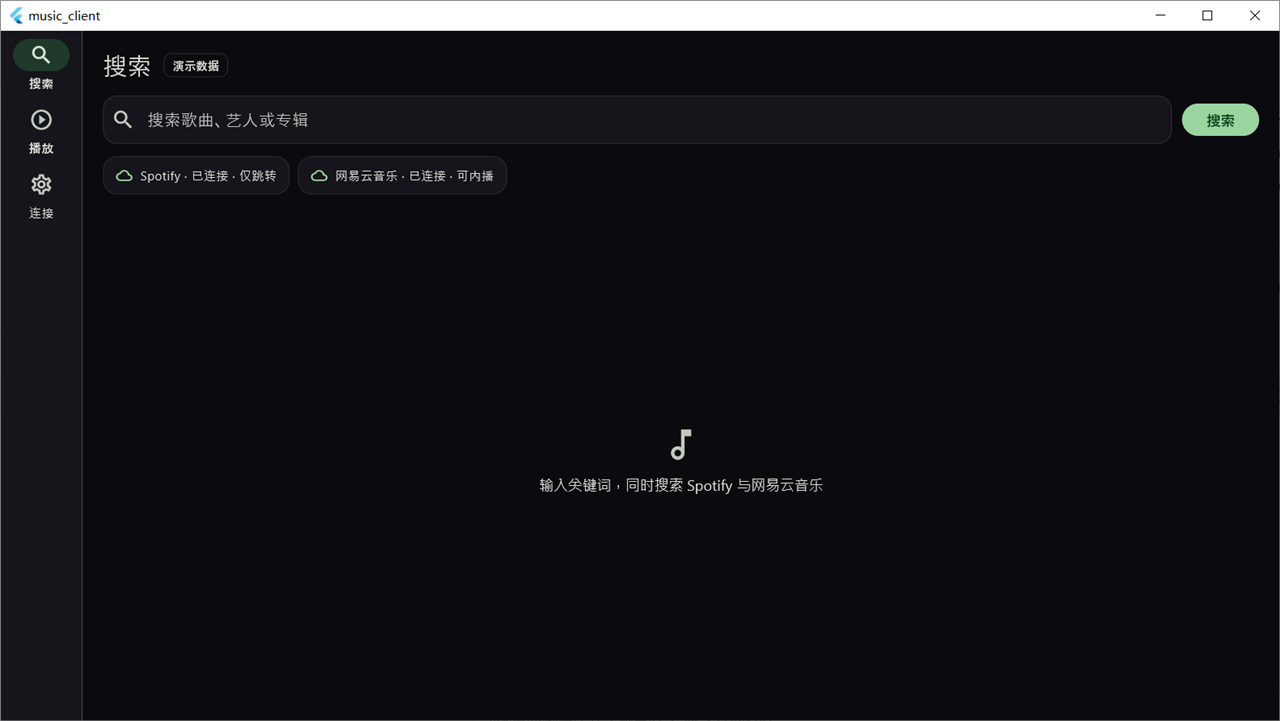
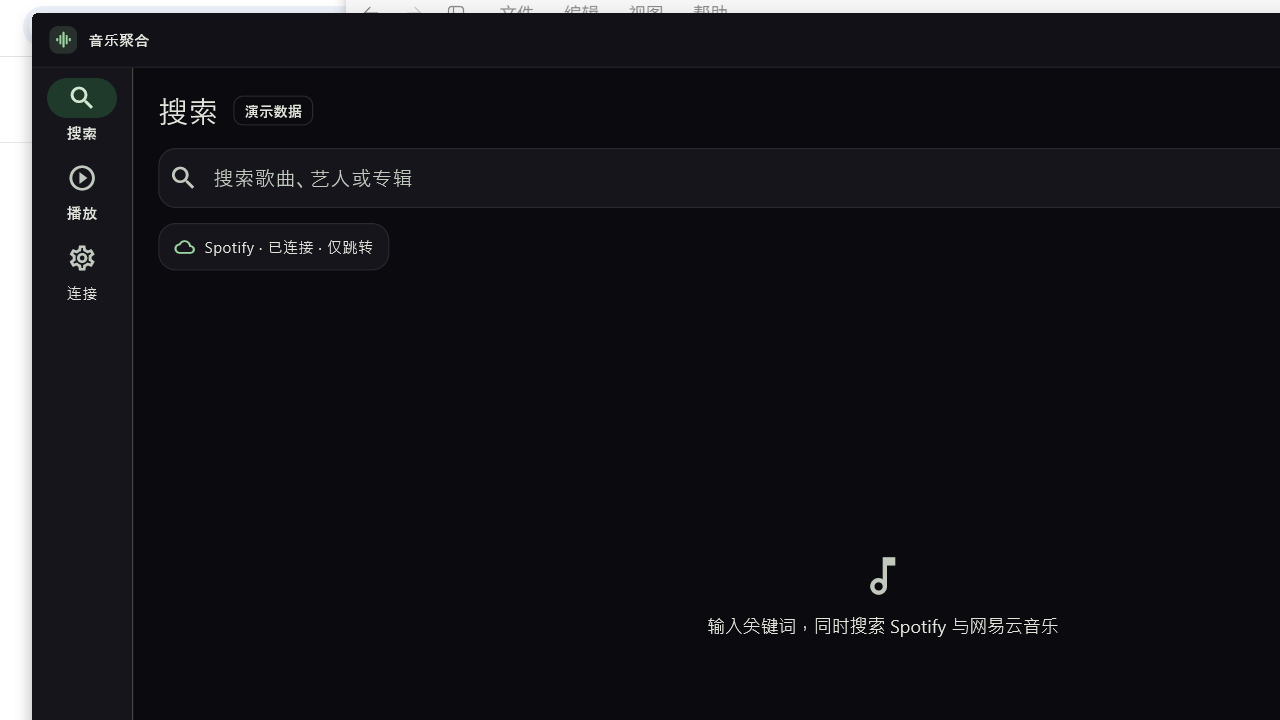
docs: record frameless window verification

diff --git a/TOOLCHAIN.md b/TOOLCHAIN.md
@@ -63,7 +63,7 @@ licenses: All SDK package licenses accepted
 | 目标 | 状态 | 证据 |
 | --- | --- | --- |
 | 静态检查 | ✅ | `flutter analyze` → No issues found |
-| 测试 | ✅ | `flutter test` → 152 passed |
+| 测试 | ✅ | `flutter test` → 159 passed |
 | Android APK | ✅ | `build/app/outputs/flutter-apk/app-debug.apk`（debug，含全部 ABI） |
 | Windows 桌面 | ✅ | `build/windows/x64/runner/Debug/music_client.exe`，已启动验证 |
 | Web 预览（仅用于看界面） | ✅ | `build/web` + `tools/serve_web.js`，截图见 `docs/screenshots/` |

diff --git a/README.md b/README.md
@@ -26,6 +26,7 @@ Spotify 与网易云音乐的聚合客户端：Windows + Android（Flutter），
 - 隐私边界：不请求密码，界面无密码输入框；凭证抽象只接受服务端返回值。
 - Spotify 令牌存入平台安全存储并在启动时恢复；授权过期时自动刷新。
 - 播放到曲目结尾时自动进入队列下一首；队列对同一曲目去重。
+- Windows 使用无边框窗口，应用内提供品牌标题栏与最小化、最大化/还原、关闭按钮。
 
 ## 环境准备（本机已装好）
 
